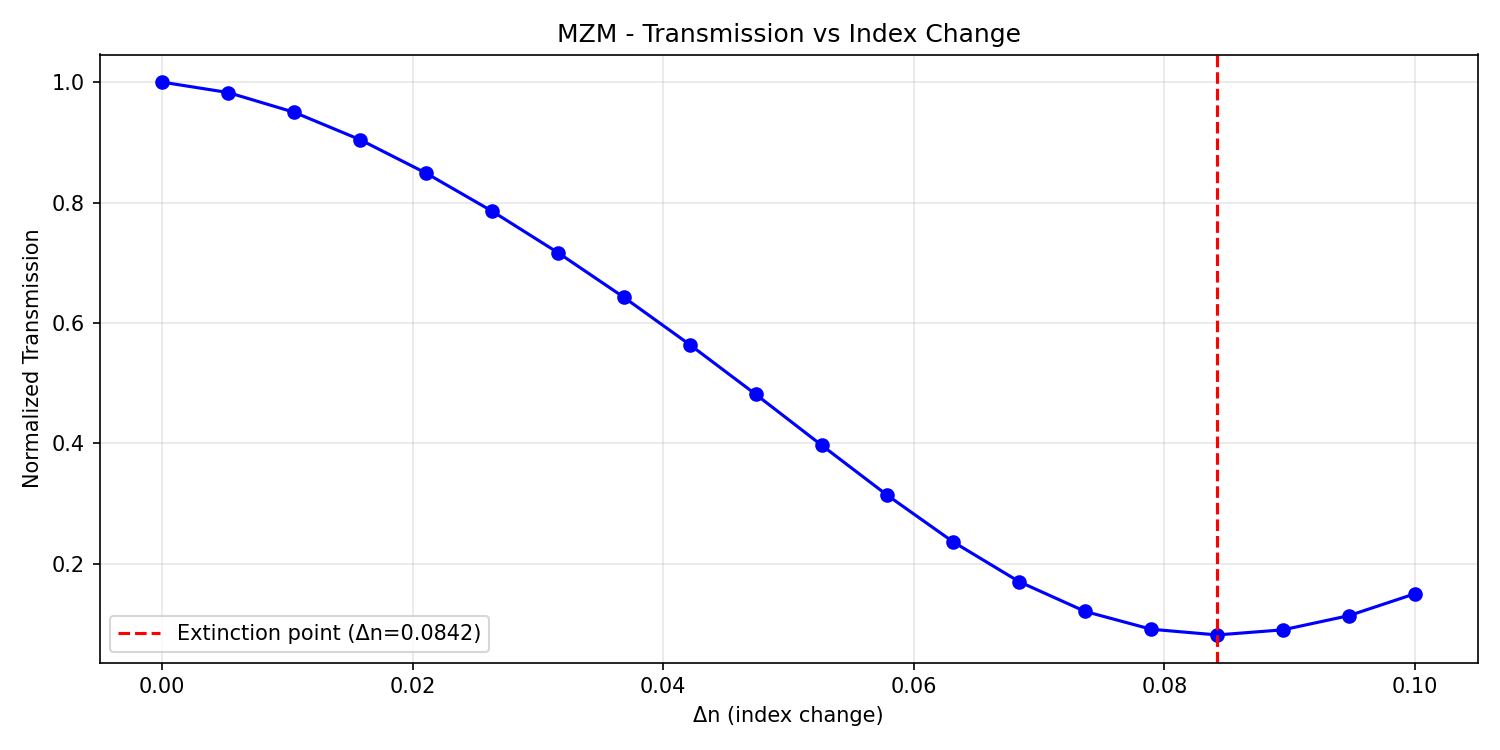
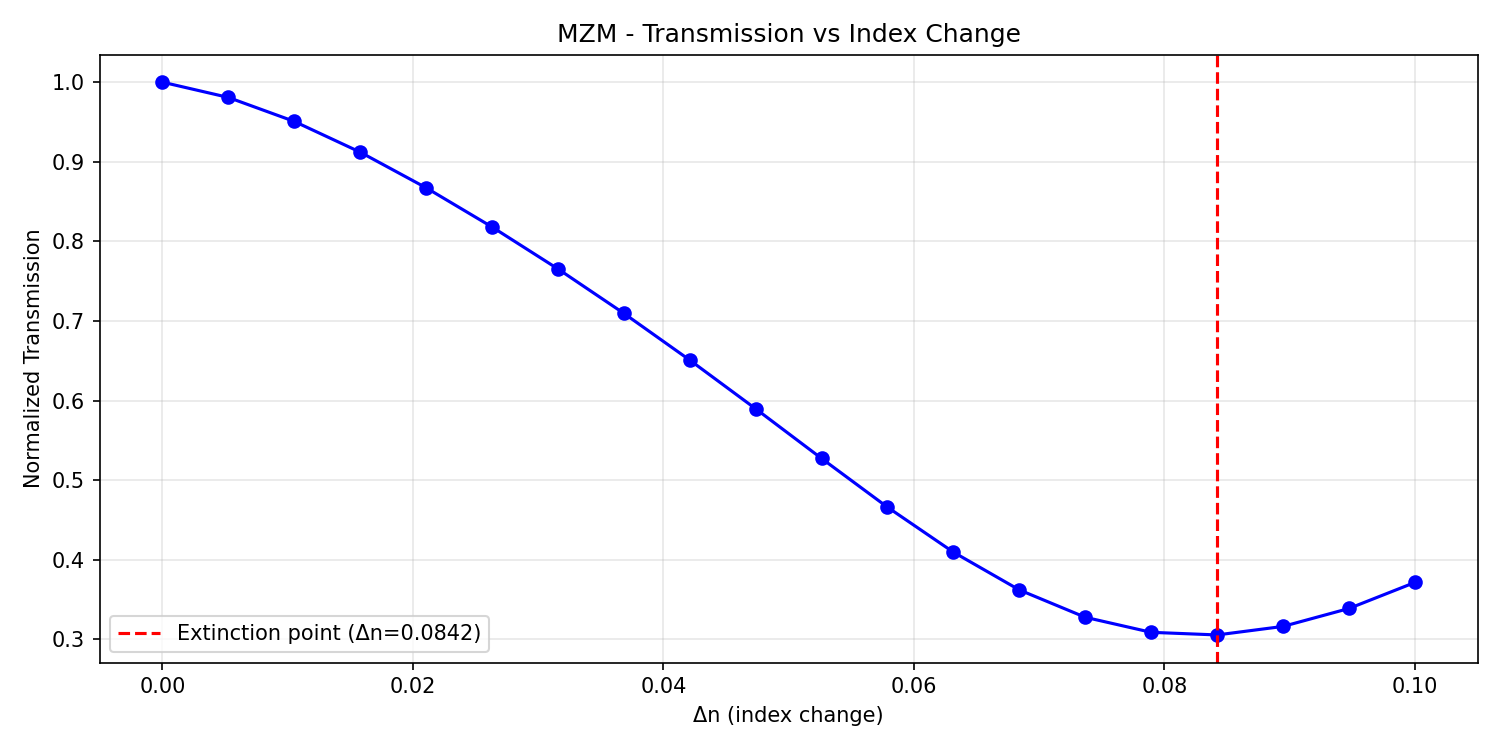
Feat: Add new 003_mzm folder

diff --git a/003_mzm/mzm_sweep_sim.py b/003_mzm/mzm_sweep_sim.py
@@ -59,7 +59,7 @@ def run_mzm(delta_n):
         1/1.55, 0.01, 1,
         mp.FluxRegion(
             center=mp.Vector3(sx/2 - 2, 0),
-            size=mp.Vector3(0, w*2)
+            size=mp.Vector3(0, w*2 + gap)
         )
     )
 

diff --git a/003_mzm/README.md b/003_mzm/README.md
@@ -1,0 +1,24 @@
+# 03 Mach-Zehnder Modulator (MZM)
+
+Simulated electro-optic modulation in a Mach-Zehnder Modulator by sweeping refractive index change (Δn) in one arm to find the extinction point.
+
+## Device Parameters
+- Waveguide width: 500 nm
+- Arm length: 10 μm
+- Core: Si (n = 3.48)
+- Cladding SiO2 (n = 1.44)
+
+## Key Physics
+Applying voltage to one arm changes its refractive index via the electro-optic effect, introducing a phase shift between the two arms. When the phase difference reaches π, destructive interference at the output gives minimum transmission — the extinction point. 
+
+This directly connects to my PhD research on ferroelectric nematic liquid crystals, which exhibit large electro-optic responses.
+
+## Result
+![MZM Sweep](mzm_sweep.png)
+
+**Extinction point: Δn = 0.0842**
+Transmission drops to minimum at Δn = 0.0842, corresponding to a π phase shift in the modulated arm. 
+
+## Files
+- 'mzm_sweep.py' — delta_n sweep simulation
+- 'mzm_sweep.png' - transmission vs index change
